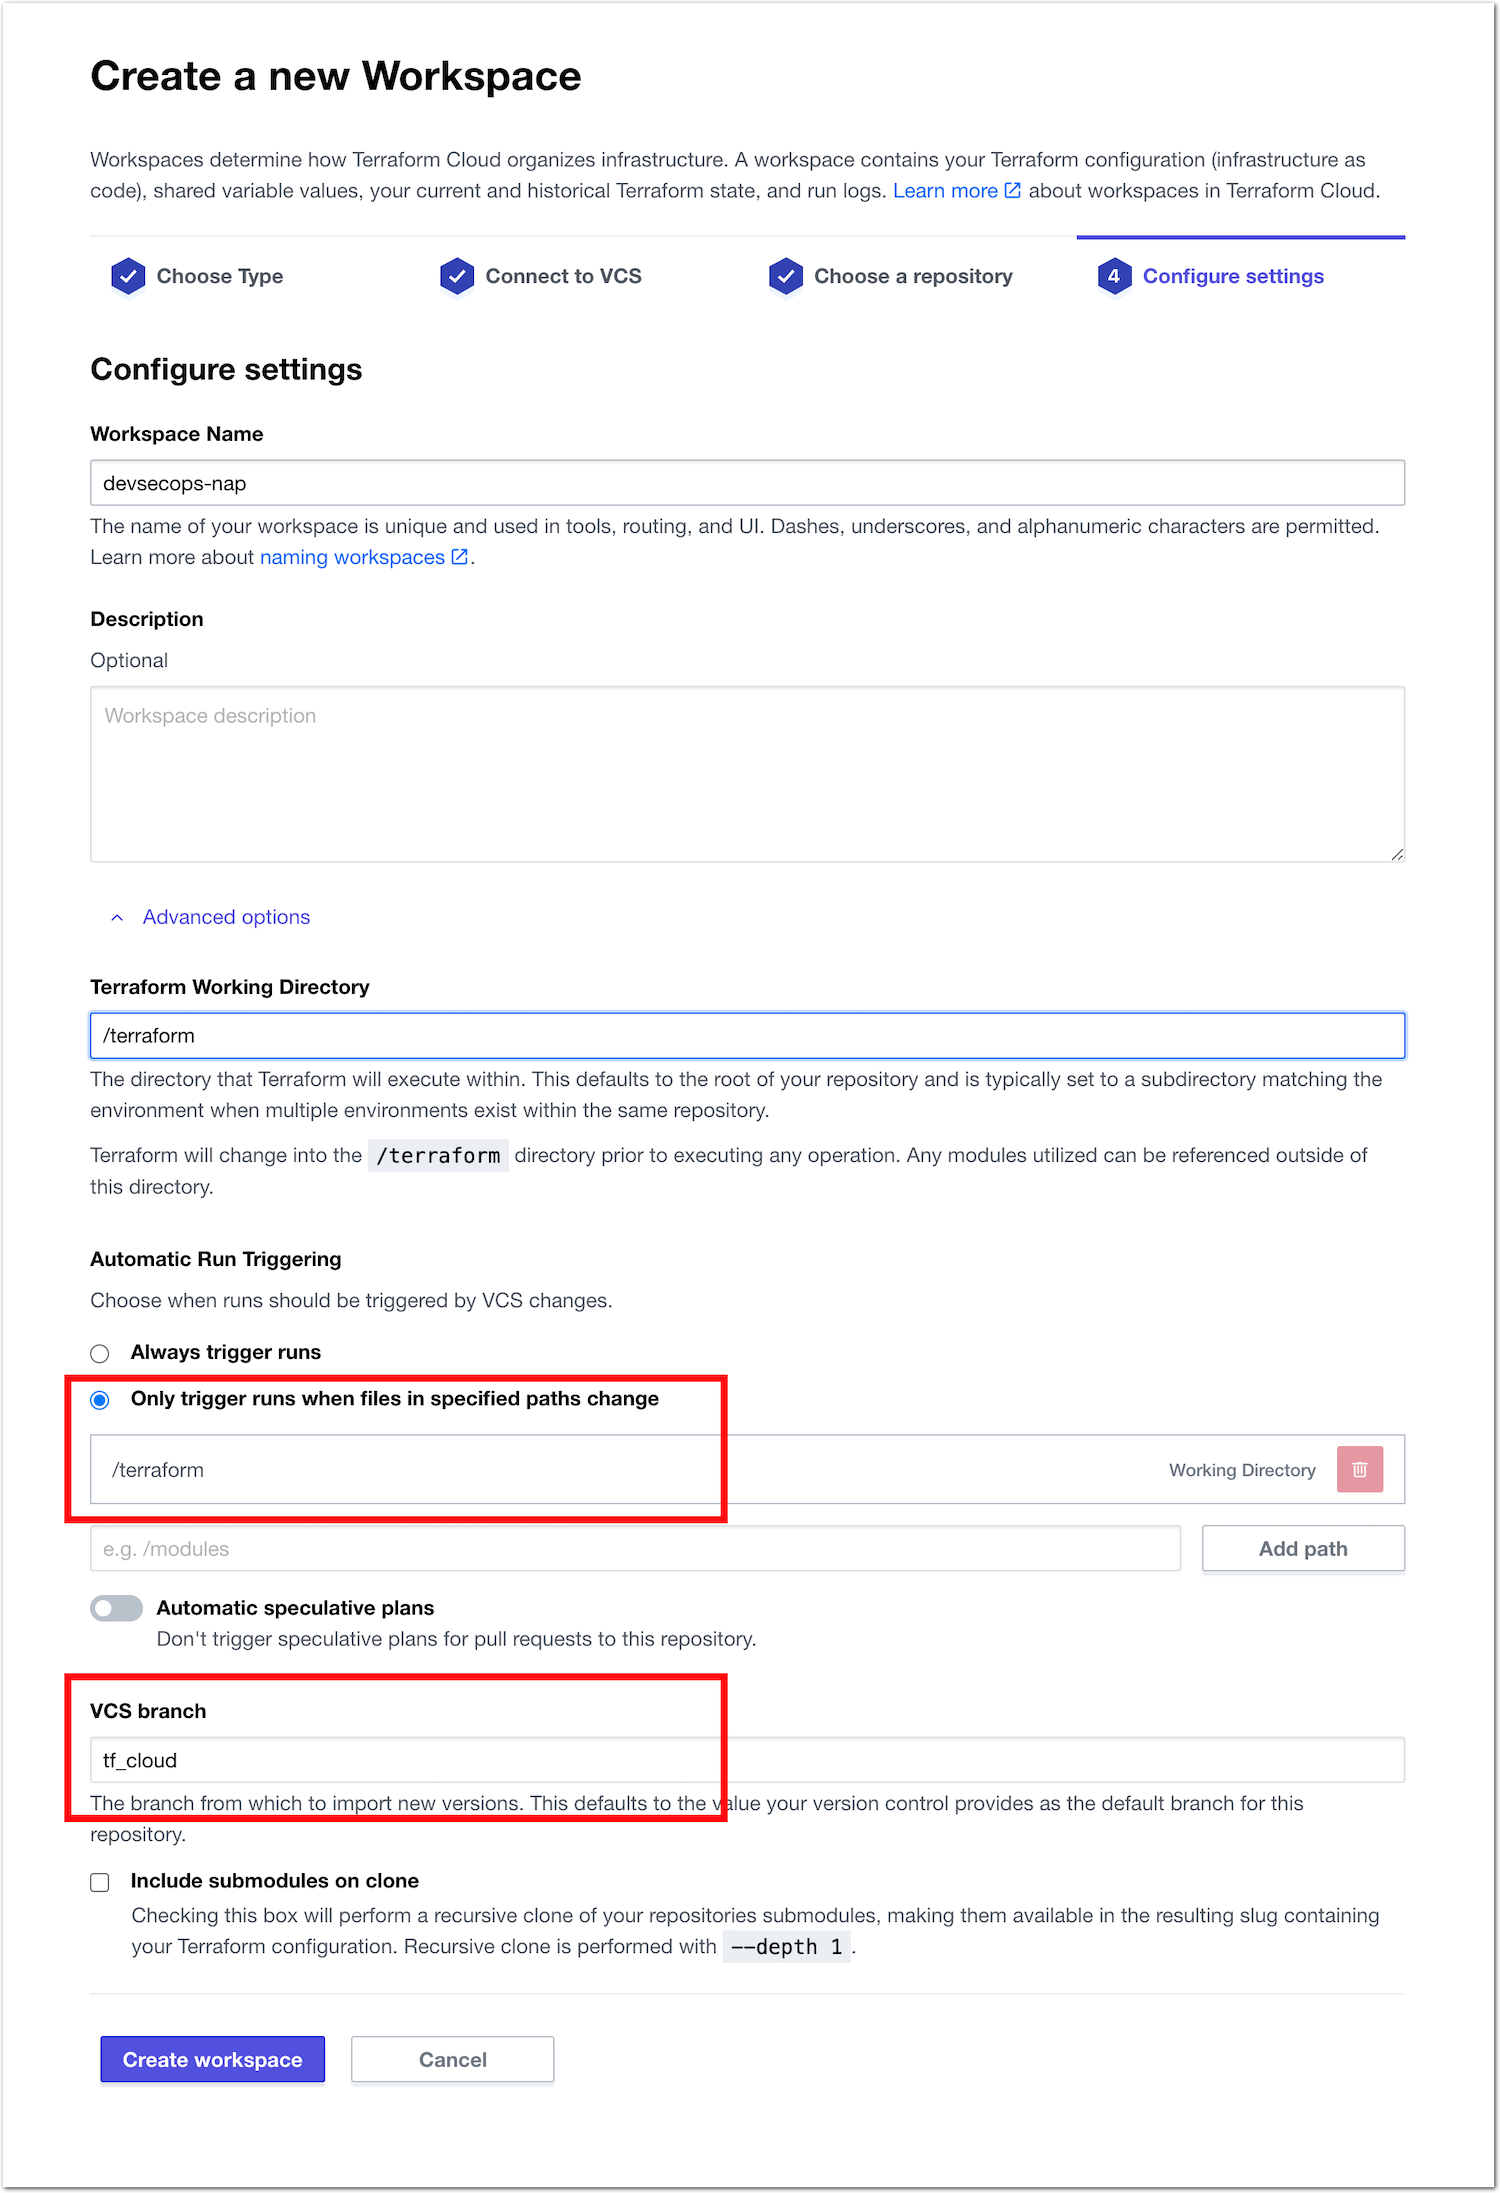
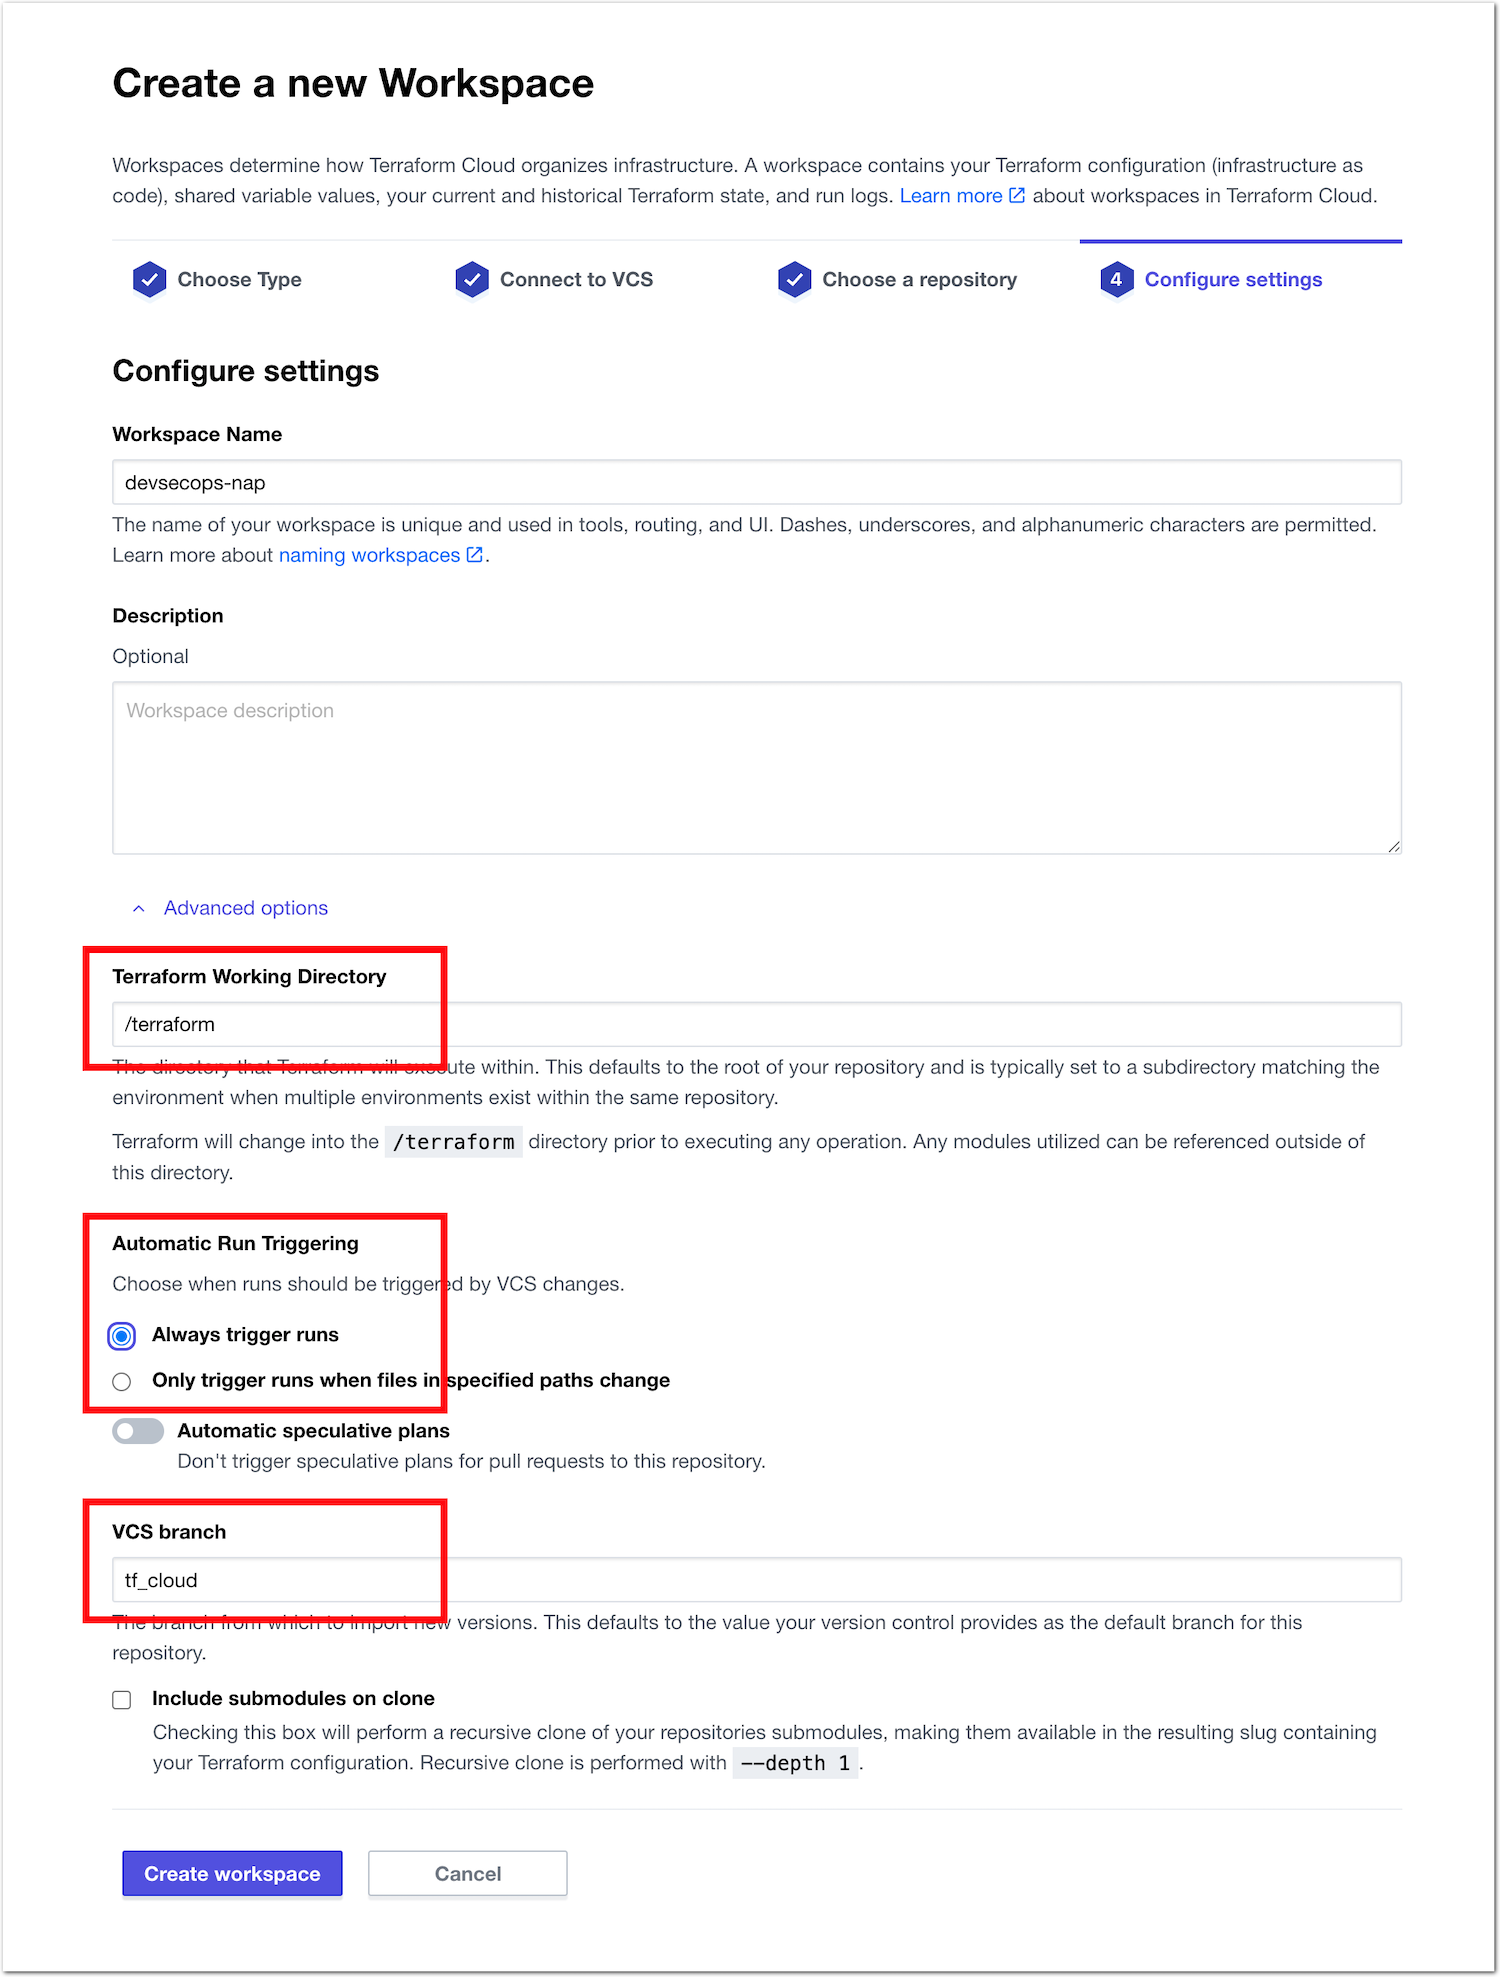
fix

diff --git a/docs/class1/module3/lab1/lab1.rst b/docs/class1/module3/lab1/lab1.rst
@@ -22,6 +22,7 @@ Prepare your Teraform Cloud account
 
     * In the next screen, open ``advanced options``
     * Set ``Terraform Working Directory`` to ``/terraform``. This is where the plan.rf is located
+    * Set ``Automatic Run Trigerring`` to ``Always``
     * Set the VCS branch to ``tf_cloud``. We will use a dedicated branch for this module in order to keep 2 ways to do your demo/test (manual with Dev and CI with tf_cloud)
 
       .. image:: ../pictures/lab1/adv-option.png

diff --git a/docs/class1/module1/lab1/lab1.rst b/docs/class1/module1/lab1/lab1.rst
@@ -58,7 +58,7 @@ This terraform creates 3 Resource Groups:
 
 |
 
-Connect your Docker engine and Kuebctl context with Azure
+Connect your Docker engine and Kubectl context with Azure
 *********************************************************
 
 * In your Azure Portal, find your ACR. Its name is acr<prefix>, the prefix has been set in the ``parameters.tfvars``
